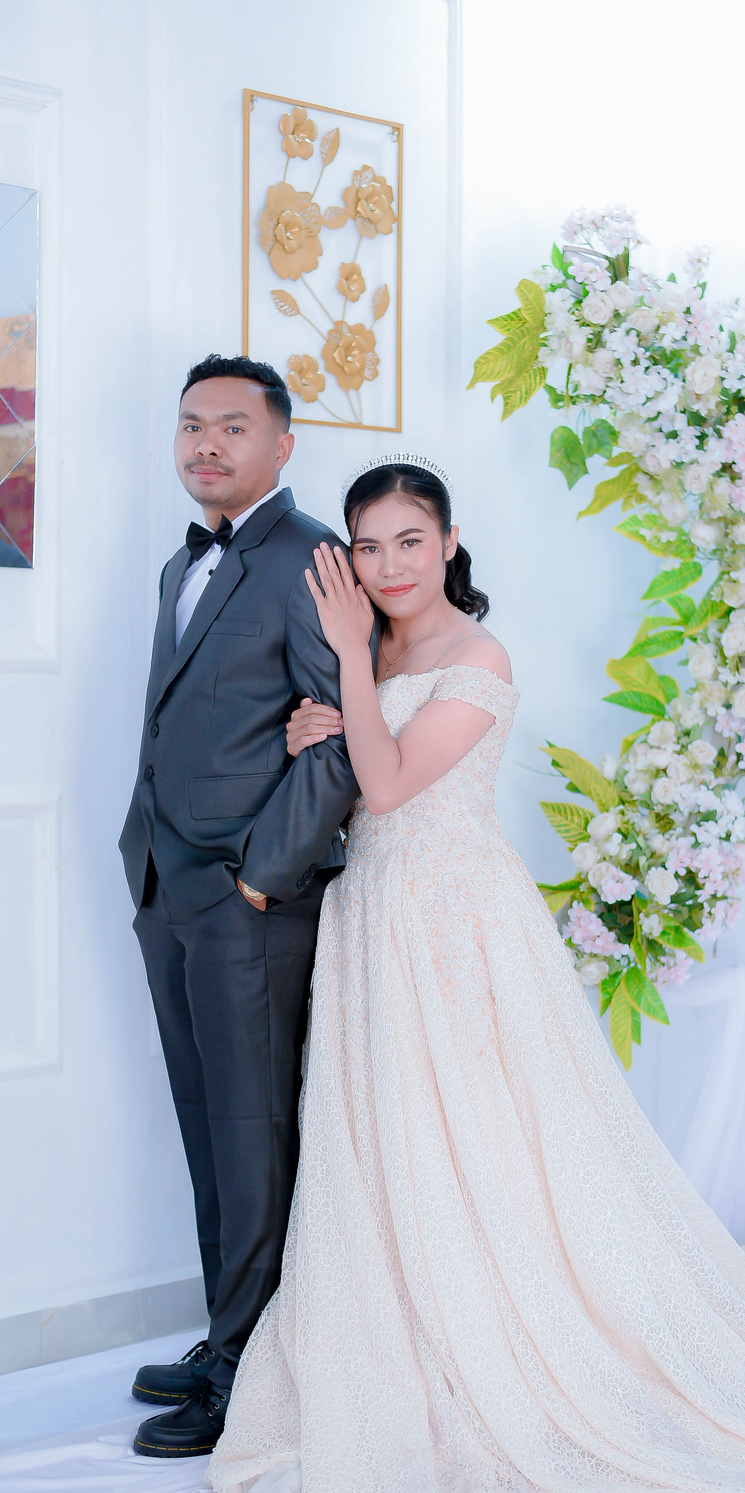
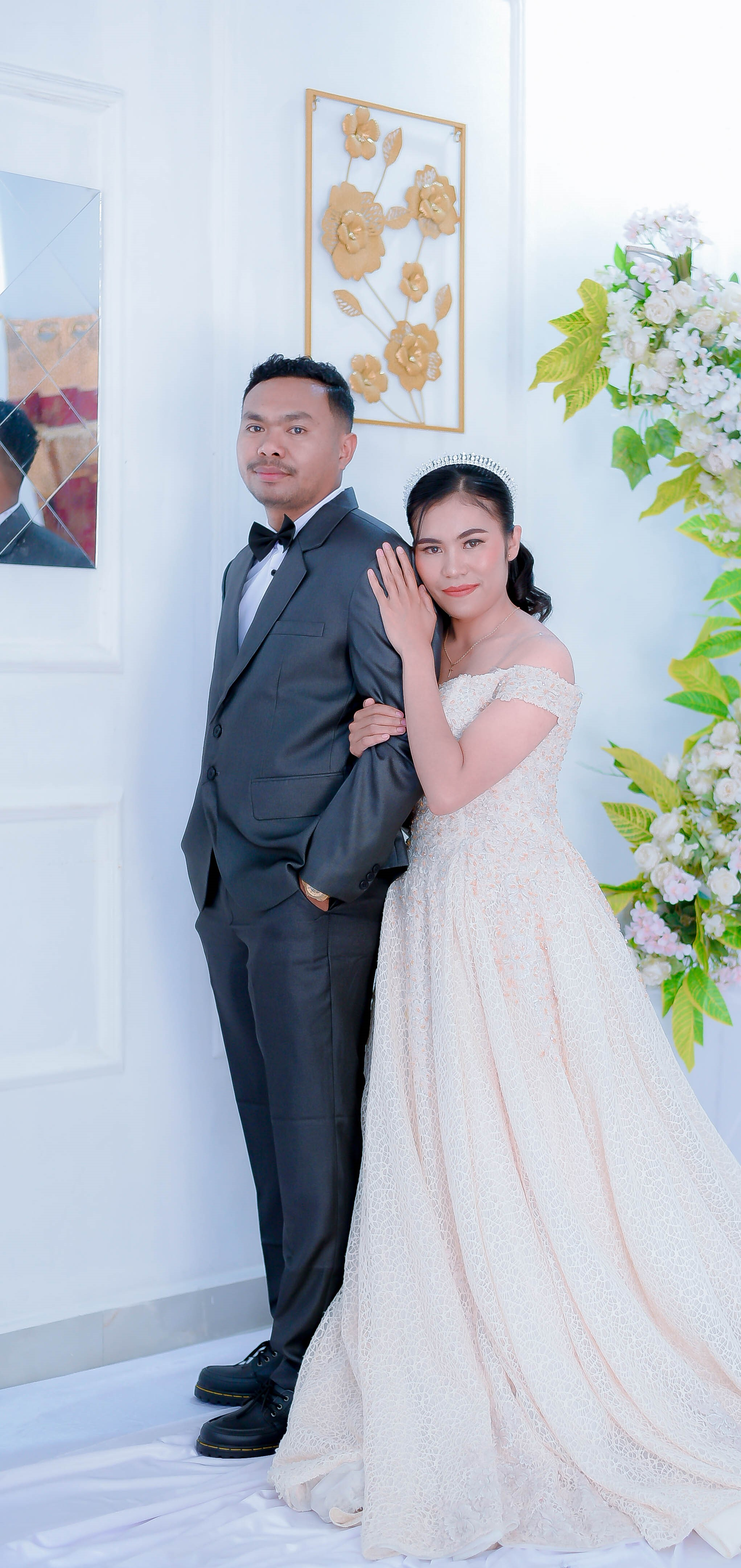
add loader

diff --git a/index.html b/index.html
@@ -21,7 +21,7 @@
     <!-- font -->
     <link rel="preconnect" href="https://fonts.googleapis.com">
     <link rel="preconnect" href="https://fonts.gstatic.com" crossorigin>
-    <link href="https://fonts.googleapis.com/css2?family=Tangerine:wght@400;700&display=swap" rel="stylesheet">
+    <link href="https://fonts.googleapis.com/css2?family=Caramel&family=Mea+Culpa&family=Quicksand:wght@300..700&display=swap" rel="stylesheet">
 
     <link rel="stylesheet" href="https://unpkg.com/aos@next/dist/aos.css" />
 
@@ -50,7 +50,7 @@
 </head>
 
 <body class="overflow-hidden">
-    <!--
+
     <div id="loader">
             <div class="name-loader">
                 <span class="name-outline">Vent & Try</span>
@@ -61,7 +61,6 @@
                  Undangan sedang disiapkan...
             </div>
         </div>
-        -->
 
     <div class="mobile-container">
         
@@ -105,12 +104,13 @@
                 <div class="atas">
 
                     <p class="opening-text">
-                        The Wedding Of
+                        THE WEDDING OF
                     </p>
 
                     <h1 class="couple-name">
                         Vent & Try
                     </h1>
+                    <p class="cover-jdwl">16 • 10 • 2026</p>
 
                 </div>
 
@@ -163,7 +163,8 @@
             <div class="col-12 py-4" data-aos="fade-up">
 
                 <p class="ayat">
-                    Demikian mereka bukan lagi dua, melainkan satu. Karena itu, apa yang telah dipersatukan Allah, tidak boleh diceraikan manusia.
+                    Demikian mereka bukan lagi dua, melainkan satu. Karena itu, 
+                    apa yang telah dipersatukan Allah, tidak boleh diceraikan manusia.
                 </p>
 
                 <hr>
@@ -183,7 +184,7 @@
         <div class="container">
             <div class="row align-items-center justify-content-center">
                 <div class="col-12 text-center py-2">
-                    <p>Dengan penuh rasa syukur kepada Tuhan Yesus dan 
+                    <p class="txt">Dengan penuh rasa syukur kepada Tuhan Yesus dan 
                         dengan penuh rasa hormat, kami mengundang Bapak/Ibu/Saudara/I untuk menghadiri acara pernikahan kami</p>
                     <hr class="custom">
                 <div class="mempelai">
@@ -194,9 +195,9 @@
                     data-aos="fade-up" 
                     data-aos-duration="2000">
                         <p class="nama_2" data-aos="zoom-in" 
-                    data-aos-duration="2000">Ventrius Benu, S.KM</p>
+                    data-aos-duration="2000">Ventrius Benu, <span class="glr">S.KM</span> </p>
                     <hr class="custom">
-                        <p data-aos="fade-up" 
+                        <p class="txt" data-aos="fade-up" 
                     data-aos-duration="2000">Anak ke empat dari 4 bersaudara <br> pasangan Bpk. Adrianus Benu & <br>Ibu. Maria Benu/Sanam</p>
                     </div>
                     <img src="assets/dec/ring.png" alt="wedding ring" class="ring" data-aos="zoom-in" 
@@ -209,9 +210,9 @@
                         data-aos="fade-up" 
                     data-aos-duration="2000">
                         <p class="nama_2" data-aos="zoom-in" 
-                    data-aos-duration="2000">Triyanti Leob, A.Md. Keb</p>
+                    data-aos-duration="2000">Triyanti Leob, <span class="glr">A.Md. Keb</span> </p>
                         <hr class="custom">
-                        <p data-aos="fade-up" 
+                        <p class="txt" data-aos="fade-up" 
                     data-aos-duration="2000">Anak pertama dari 5 bersaudara <br> pasangan Bpk. Oktofianus Leob & <br>Ibu. Apdolina Leob/Seko</p>
                     </div>
                 </div>
@@ -231,7 +232,7 @@
     <div class="container">
         <div class="row align-items-center justify-content-center">
             <div class="col-12 text-center text-dark fw-bold">
-                <p class="py-3 text-light" data-aos="fade-up" 
+                <p class="txt py-3 text-light" data-aos="fade-up" 
                     data-aos-duration="1000">
                     Yang akan diselenggarakan pada :
                 </p>
@@ -266,16 +267,16 @@
                     <hr class="custom">
                     <div class="jadwal text-start" data-aos="fade-up" 
                     data-aos-duration="2000">
-                        <p>
+                        <p class="txt">
                             <img src="assets/dec/time.png" class="icon" alt="">
                             Pukul 10 : 00 Wita - Selesai
                         </p>
-                        <p>
+                        <p class="txt">
                             <img src="assets/dec/location.png" class="icon" alt="">
                             Gereja Imanuel Bijaepunu</p>
                     </div>
                     
-                    <a href="https://maps.app.goo.gl/Z5kDWR29DsrmviBg7" target="_blank" class="btn_maps mt-4">Lihat Lokasi</a>
+                    <a href="https://maps.app.goo.gl/4SYQmAY38pGf9BnA6" target="_blank" class="btn_maps mt-4">Lihat Lokasi</a>
                 
                 </div>
                 <div class="jadwal-wrapper my-3"
@@ -286,22 +287,22 @@
                     <hr class="custom">
                 <div class="jadwal text-start" data-aos="fade-up" data-aos-duration="1000">
 
-                    <p>
+                    <p class="txt">
                         <img src="assets/dec/time.png" class="icon" alt="">
                          Pukul 18 : 00 Wita - Selesai
                     </p>
 
-                    <p>
+                    <p class="txt">
                         <img src="assets/dec/home.png" class="icon" alt="">
                         Rumah Bpk. Oktofianus Leob
                     </p>
-                    <p>
+                    <p class="txt">
                         <img src="assets/dec/location.png" class="icon" alt="">
                         Tunua, Bijaepunu
                     </p>
 
                 </div>
-                    <a href="https://maps.app.goo.gl/Z5kDWR29DsrmviBg7" target="_blank" class="btn_maps mt-4">
+                    <a href="https://maps.app.goo.gl/hXwHdYEYrTFGWyyS6" target="_blank" class="btn_maps mt-4">
                   Lihat Lokasi
                     </a>
                 </div>
@@ -514,7 +515,7 @@
         <p class="section-subtitle">
             UCAPAN & DOA
         </p>
-        <h2>
+        <h2 class="txt_2">
             Ucapan Bahagia
         </h2>
     </div>
@@ -533,7 +534,7 @@
     <div class="container">
         <div class="row">
             <div class="col-12">
-                <p class="text-center py-3 fw-bold" data-aos="fade-up" 
+                <p class="jdwl text-center py-3 fw-bold" data-aos="fade-up" 
                     data-aos-duration="1000">Galeri Foto</p>
                 <div class="gallery-slider" data-aos="zoom-in" 
                     data-aos-duration="1000">
@@ -590,7 +591,7 @@
         <div class="container">
             <div class="row align-items-center justify-content-center">
                 <div class="col-12 text-center py-5">
-                    <p data-aos="fade-up" 
+                    <p class="txt" data-aos="fade-up" 
                     data-aos-duration="1000">Turut Mengundang</p>
                     <hr class="custom">
                     <div class="kel_mem text-start" data-aos="fade-right" 

diff --git a/assets/css/linniel_2.css b/assets/css/linniel_2.css
@@ -59,14 +59,10 @@
 #linniel_2 .section-decoration{
 
     position:absolute;
-
     inset:0;
-
     width:100%;
     height:100%;
-
     z-index:2;
-
     pointer-events:none;
 
 }
@@ -139,15 +135,12 @@
 
 #linniel_2 .ayat{
 
-    font-size:var(--fs-body);
-
-    font-weight:bolder;
-
+    font-size: 30px;
+    font-family: "Caramel", cursive;
     color:var(--color-secondary) !important;
-
     margin-bottom:15px;
-
     filter:drop-shadow(2px 1px 4px black);
+    line-height: 1.2;
 
 }
 
@@ -159,13 +152,11 @@
 
 #linniel_2 .kutipan_2{
 
-    font-size:22px;
-
+    font-size: 32px;
+    font-family: "Caramel", cursive;
     color:var(--color-secondary) !important;
-
     filter:drop-shadow(2px 1px 4px black);
 
-    font-weight:bolder;
 
 }
 

diff --git a/assets/css/linniel_3.css b/assets/css/linniel_3.css
@@ -48,25 +48,18 @@ hr.custom{
 
 }
 .nama{
-    font-family: "Tangerine", cursive;
+    font-family: "Mea Culpa", cursive;
     font-style: normal;
     font-size: 50px;
-    font-weight: bolder;
     color: var(--color-secondary);
     filter: drop-shadow(2px 4px 2px black);
 }
 .nama_2{
-    font-family: "Tangerine", cursive;
-    font-style: normal;
+    font-family: "Mea Culpa", cursive;
     font-size: 40px;
-    font-weight: bolder;
     color:var(--color-secondary);
     filter: drop-shadow(2px 4px 2px black);
 }
-.jdwl{
-    font-family: "Tangerine", cursive;
-    font-style: normal;
-    font-size: 40px;
-    font-weight: bolder;
-    color:var(--color-primary);
+.glr{
+    font-family: "Caramel", cursive;
 }

diff --git a/assets/css/linniel_1.css b/assets/css/linniel_1.css
@@ -114,36 +114,36 @@
 .opening-text{
 
     font-size:var(--fs-body);
-
     font-weight:var(--fw-normal);
-
     color:var(--color-primary);
-
     margin-bottom:15px;
 
+}
+
+.cover-jdwl{
+    font-size: 13px;
+    letter-spacing: 4px;
+    color: var(--color-primary);
+    line-height: 0.2;
+    font-weight: bolder;
 }
 
 
 .couple-name{
 
-    font-family:"Tangerine", cursive;
-
+    font-family: var(--font-name);
     font-weight:400;
-
     font-style:normal;
-
-    font-weight:bolder;
-
     font-size:70px;
-
     color:var(--color-primary);
-
-    line-height:0.2;
-
+    line-height:0.8;
     margin-bottom:40px;
-
     white-space:nowrap;
 
+}
+
+.atas{
+    line-height: 0.2;
 }
 
 

diff --git a/assets/css/ucapan.css b/assets/css/ucapan.css
@@ -26,7 +26,6 @@
     font-weight: bold;
     letter-spacing: 3px;
     color: var(--color-primary);
-    filter: drop-shadow(2px 2px 2px white);
     margin-bottom: 8px;
 
 }
@@ -36,7 +35,7 @@
 
     font-size: 28px;
 
-    font-weight: 400;
+    font-weight: bolder;
 
     margin: 0;
 
@@ -220,7 +219,12 @@
     background: var(--color-primary);
 
 }
-
+.txt_2{
+    font-family: "Quicksand", sans-serif;
+    font-weight: bold;
+    font-size: 18px;
+    color: var(--color-primary);
+}
 
 /* Nama */
 

diff --git a/assets/css/style.css b/assets/css/style.css
@@ -7,6 +7,7 @@
     /* Font */
     --font-heading: serif;
     --font-body: sans-serif;
+    --font-name: "Mea Culpa", cursive;
 
     /* Color */
     --color-primary: #722F37;
@@ -241,6 +242,11 @@ p{
 
     text-align:center;
 
+}
+
+.txt{
+    font-family: "Quicksand", sans-serif;
+    font-weight: bolder;
 }
 
 

diff --git a/assets/css/linniel_4.css b/assets/css/linniel_4.css
@@ -72,5 +72,8 @@
 
 }
 .jdwl{
-    filter: drop-shadow(2px 2px 2px black);
+    font-family: "Caramel", cursive;
+    font-size: 46px;
+    color:var(--color-primary);
+    filter: drop-shadow(2px 2px 2px rgb(247, 247, 247));
 }

diff --git a/assets/css/linniel_6.css b/assets/css/linniel_6.css
@@ -9,3 +9,11 @@
     overflow:hidden;
 
 }
+
+.kel_mem{
+    font-family: "Quicksand", sans-serif;
+    font-weight: bolder;
+    font-size: 16px;
+    color: white;
+    filter: drop-shadow(2px 2px 2px rgb(247, 247, 247));
+}

diff --git a/assets/css/loader.css b/assets/css/loader.css
@@ -14,7 +14,7 @@
 .name-loader {
     position: relative;
     display: inline-block;
-    font-family: "Beau Rivage", cursive;
+    font-family: var(--font-name);
     font-size: 65px;
     line-height: 1;
 }
